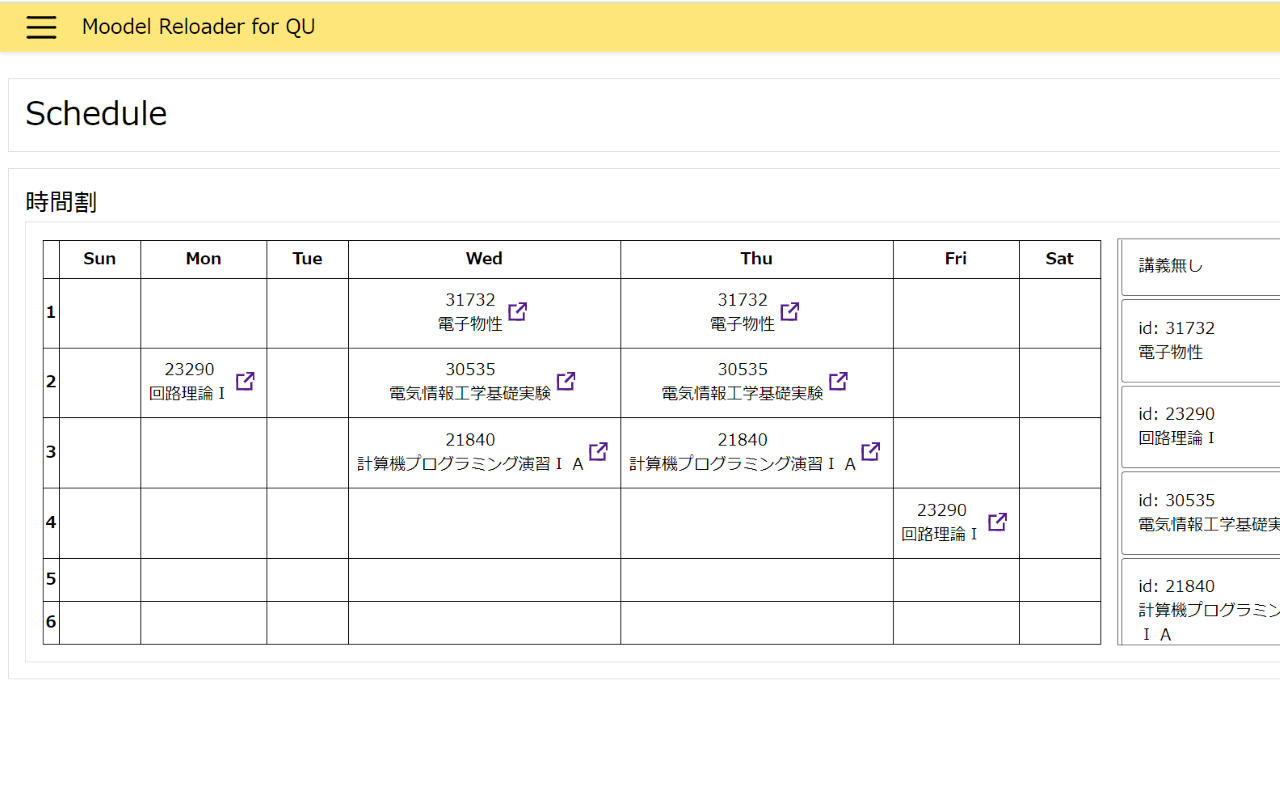
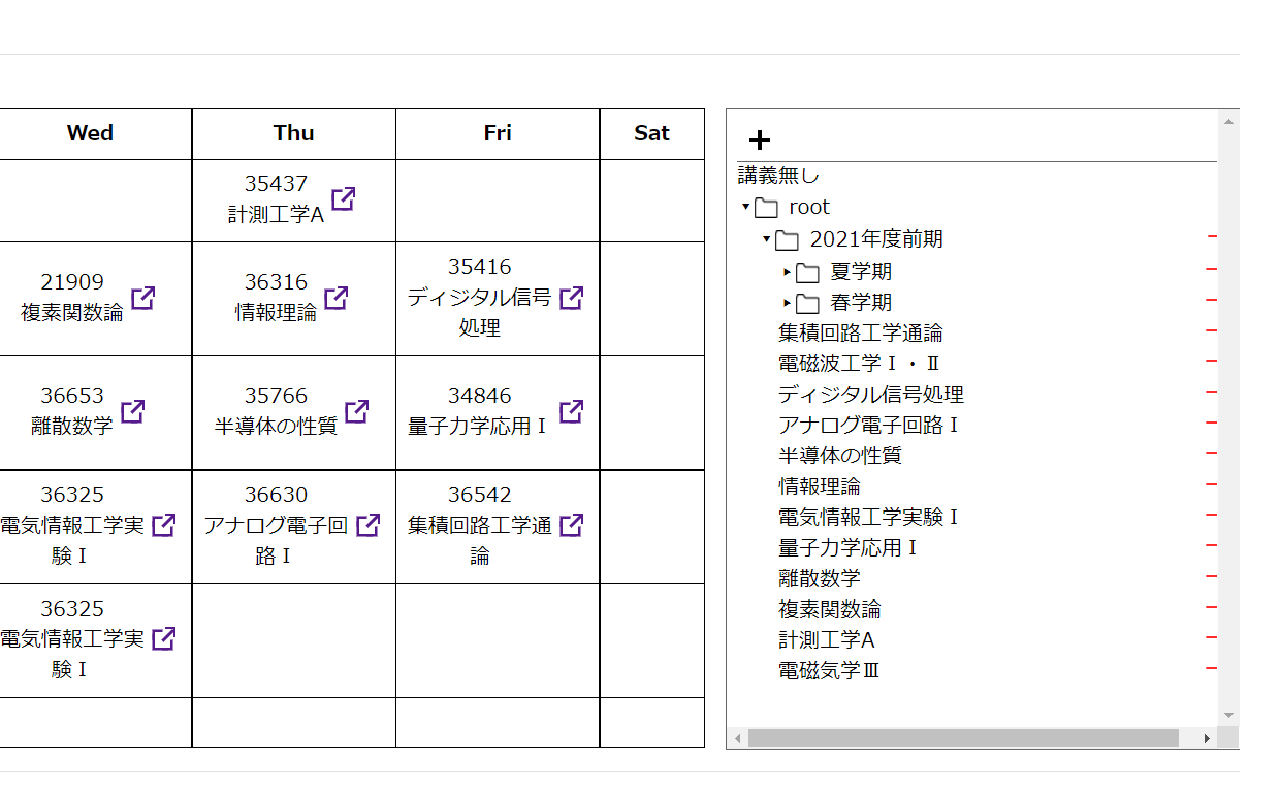
add accesor to FolderClass

diff --git a/src/option/components/Timetable.tsx b/src/option/components/Timetable.tsx
@@ -12,10 +12,10 @@ import folderIcon from "../../lib/folder_icon.svg";
 import minusIcon from "../../lib/minus.svg";
 
 
-const TYPES = {
-    COURSE: "COUESE",
-    FOLDER: "FOLDER",
-    DELCOURSE: "DELCOURSE"
+enum TYPES {
+    COURSE = "COUESE",
+    FOLDER = "FOLDER",
+    DELCOURSE = "DELCOURSE"
 };
 
 
@@ -297,21 +297,42 @@ function FolderComponent(props: {
     const [open, changeOpen] = useState<boolean>(false);
     const courseIds = props.folder.courseIds();
 
+    const [drag_collected, drag_ref] = useDrag(
+        () => ({
+            item: {
+                type: TYPES.FOLDER,
+                folderName: props.folderName,
+                folder: props.folder,
+                parent: props.parent
+            },
+            canDrag() {
+                return parent != undefined;
+            }
+        })
+    )
     const [drop_collected, drop_ref] = useDrop<
-        { type: string, id: number, folder: FolderManeger },
+        { type: TYPES.COURSE, id: number, folder: FolderManeger } |
+        { type: TYPES.FOLDER, folderName: string, folder: FolderManeger, parent: FolderManeger },
         void,
         { isOver: boolean }
     >(() => ({
-        accept: TYPES.COURSE,
+        accept: [TYPES.COURSE, TYPES.FOLDER],
         collect(monitor) {
             return {
                 isOver: monitor.isOver()
             }
         },
         drop(item, monitor) {
-            if (props.folder != item.folder) {
-                let course = item.folder.removeCourse(item.id, false)!;
-                props.folder.setCourse(item.id, course);
+            if (item.type == TYPES.COURSE) {
+                if (props.folder != item.folder) {
+                    let course = item.folder.removeCourse(item.id, false)!;
+                    props.folder.setCourse(item.id, course);
+                }
+            } else if (item.type == TYPES.FOLDER) {
+                if (!item.folder.isDescentFolder(props.folder)) {
+                    let folder = item.parent.removeFolder(item.folderName, false)!;
+                    props.folder.setFolder(item.folderName, folder);
+                }
             }
         }
     }));
@@ -321,15 +342,26 @@ function FolderComponent(props: {
     }
 
     return (
-        <>
+
+        < div style={folderStyle} >
             <div
                 className={styles["folderTitle"]}
-                style={folderStyle}
                 onClick={(event) => { changeOpen(!open); }}
                 ref={drop_ref}>
                 {open ? "▾" : "▸"}
-                <img src={folderIcon} alt="folder icon" style={{ height: "1rem", paddingRight: ".5rem" }} />
+                <img src={folderIcon} alt="folder icon" style={{ height: "1rem", paddingRight: ".5rem" }} ref={drag_ref} />
                 {props.folderName}
+                {props.parent != undefined ? <div
+                    onClick={() => {
+                        if (props.folder.isEmpty()) {
+                            props.parent?.removeFolder(props.folderName);
+                        }
+                    }}
+                    style={{ marginLeft: "auto" }}>
+                    <img src={minusIcon} alt="remove course Icon" style={{ height: "1rem", fill: "red" }} />
+                </div> : null
+                }
+
             </div>
             <div
                 className={styles["folderComponent"]}
@@ -341,6 +373,7 @@ function FolderComponent(props: {
                             folderName={folderName}
                             folder={props.folder.getFolder(folderName)}
                             rootFolder={props.rootFolder}
+                            parent={props.folder}
                             key={folderName}
                             timetable={props.timetable}
                         />)
@@ -359,8 +392,7 @@ function FolderComponent(props: {
                     )}
                 </div>
             </div>
-
-        </>
+        </div >
     );
 
 }

diff --git a/src/datas_wrapper/Course.tsx b/src/datas_wrapper/Course.tsx
@@ -1,3 +1,4 @@
+import { SSL_OP_SSLEAY_080_CLIENT_DH_BUG } from "node:constants";
 import { useEffect, useState, useReducer } from "react";
 import { ChromeStorage } from "../chromeAPI_wrapper/storage";
 
@@ -16,9 +17,11 @@ export interface Folder {
 export class _FolderManeger {
     courses: Course[]
     folders: { [courseName: string]: Folder | undefined }
-    constructor(self: Folder) {
-        this.courses = self.courses
-        this.folders = self.folders
+    accessor: string[]
+    constructor(self: Folder, accessor: string[]) {
+        this.courses = self.courses;
+        this.folders = self.folders;
+        this.accessor = accessor;
     }
 
 
@@ -75,7 +78,7 @@ export class _FolderManeger {
             if (folder == undefined) {
                 continue;
             }
-            let folderManeger = new _FolderManeger(folder);
+            let folderManeger = new _FolderManeger(folder, [...this.accessor, folderName]);
             let ret = folderManeger.searchCourse(id);
             if (ret != undefined) {
                 return ret;
@@ -95,8 +98,20 @@ export class _FolderManeger {
             });
     }
 
-    getFolder(name: string) {
-        return new _FolderManeger(this.folders[name]!);
+    getFolder(folderName: string) {
+        return new _FolderManeger(this.folders[folderName]!, [...this.accessor, folderName]);
+    }
+
+    isDescentFolder(folder: _FolderManeger) {
+        if (this.accessor.length <= folder.accessor.length) {
+            for (let i = 0; i < this.accessor.length; i++) {
+                if (this.accessor[i] != folder.accessor[i]) {
+                    return false;
+                }
+            }
+            return true;
+        }
+        return false;
     }
 
     setFolder(folderName: string, folder: Folder) {
@@ -130,14 +145,18 @@ export class _FolderManeger {
         }
         return false;
     }
+
+    isEmpty() {
+        return this.folderNames().length == 0 && this.courseIds().length == 0;
+    }
 }
 
 
 export class FolderManeger extends _FolderManeger {
     save: () => void
-    constructor(self: Folder, save: () => void) {
-        super(self);
-        this.save = save
+    constructor(self: Folder, accessor: string[], save: () => void) {
+        super(self, accessor);
+        this.save = save;
     }
 
     setCourse(id: number, course: Course, update: Boolean = true) {
@@ -162,8 +181,8 @@ export class FolderManeger extends _FolderManeger {
         }
     }
 
-    getFolder(name: string) {
-        return new FolderManeger(this.folders[name]!, this.save);
+    getFolder(folderName: string) {
+        return new FolderManeger(this.folders[folderName]!, [...this.accessor, folderName], this.save);
     }
 
     setFolder(folderName: string, folder: Folder, update: Boolean = true) {
@@ -197,6 +216,8 @@ export class FolderManeger extends _FolderManeger {
         }
         return res;
     }
+
+
 }
 
 
@@ -226,7 +247,7 @@ export function useCourseFolder(): [boolean, FolderManeger] {
         }
     }
 
-    return [ready, new FolderManeger(rootFolder, save)];
+    return [ready, new FolderManeger(rootFolder, [], save)];
 }
 
 export async function newCourseFolder() {
@@ -234,7 +255,7 @@ export async function newCourseFolder() {
     function save() {
         ChromeStorage._set({ "root": rowFolder });
     }
-    return new FolderManeger(rowFolder, save);
+    return new FolderManeger(rowFolder, [], save);
 }
 
 

diff --git a/src/event.tsx b/src/event.tsx
@@ -13,7 +13,7 @@ chrome.runtime.onInstalled.addListener(async (details) => {
     if (old_version < version) {
         if (old_version == 2) {
             let courses = await ChromeStorage._get<Course[]>("courses", new Array());
-            // await ChromeStorage._remove("courses");
+            await ChromeStorage._remove("courses");
             await ChromeStorage._set<Folder>({ "root": { courses: courses, folders: Object() } });
         } else {
             await Promise.all([
